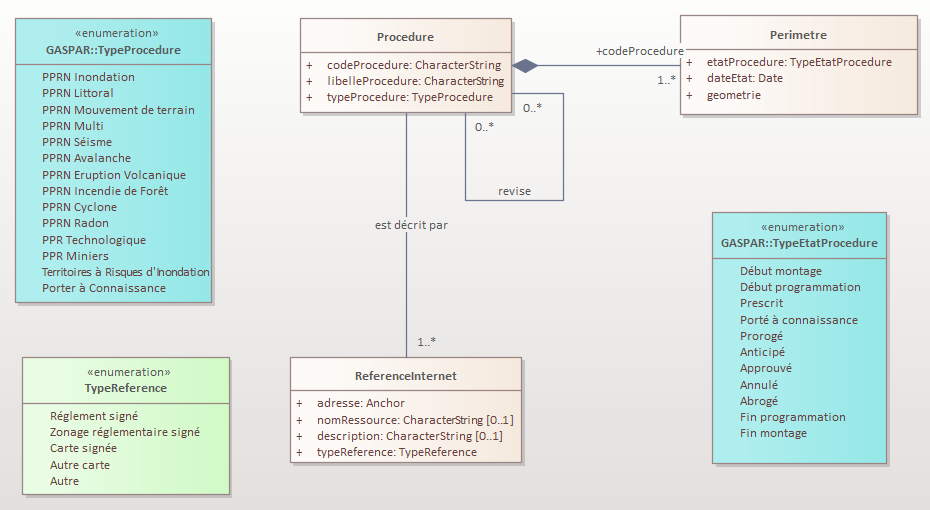
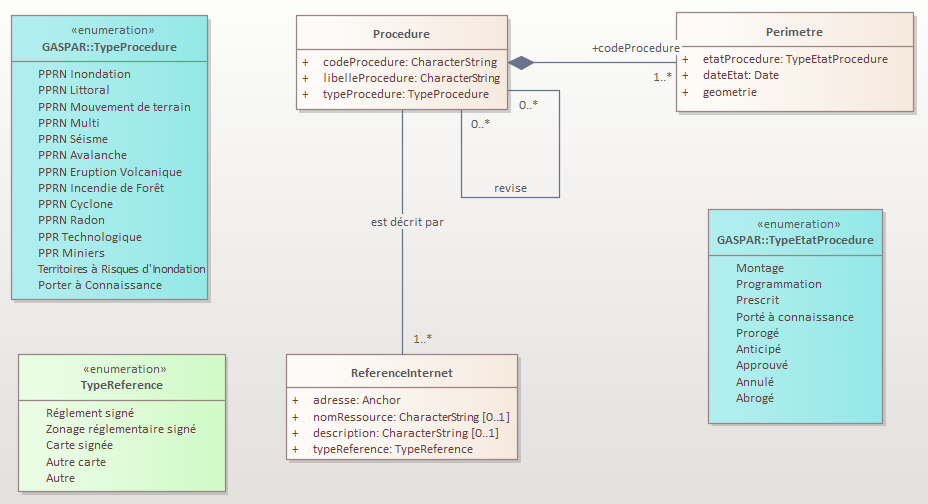
application libellés états procédures fournis par VZ.

diff --git a/standards/Geostandards-risques-commun/Document.md b/standards/Geostandards-risques-commun/Document.md
@@ -475,15 +475,15 @@ Le tableau suivant liste les différents états possibles d'une procédure appli
 
 | Libellé État | Description |
 |-|-|
-| Début programmation | Début de la programmation de la procédure |
-| Début montage | Début du montage de la procédure |
-| Prescrit | La procédure a fait l'objet d'un arrêté de prescription |
+| Programmation | Période prévisionnelle de l'élaboration de la procédure |
+| Montage | Période de réflexion du service instructeur sur la mise en place de la procédure |
+| Prescrit | La procédure a fait l'objet d'un arrêté préfectoral de prescription |
 | Porté à connaissance | La procédure a été portée à connaissance des collectivités |
 | Prorogé | La durée de validité de la procédure est prolongée au delà de la date initialement fixée |
-| Anticipé | La procédure est approuvée par anticipation |
-| Approuvé | La procédure est approuvée par l'autorité compétente et elle est opposable |
-| Annulé | La procédure est annulée |
-| Abrogé | La procédure est abrogée |
+| Anticipé | La procédure a fait l'objet d'un arrêté préfectoral portant mise en application anticipée |
+| Approuvé | La procédure fait l'objet d'un arrêté préfectoral portant approbation |
+| Annulé | La procédure a fait l'objet d'une décision d'une juridiction portant annulation |
+| Abrogé | La procédure a fait l'objet d'un arrêté préfectoral portant abrogation |
 
 
 #### Enumeration *TypeReference*
@@ -1092,7 +1092,7 @@ Le tableau suivant liste les différents types de procédures gérées dans GASP
 
 ### États d'une procédure GASPAR
 
-Le tableau suivant liste les différents états et des sous-états d'une procédure administrative dans GASPAR.  Les codes et libellés des sous-états sont réutilisés comme base pour l'énumération [TypeÉtatProcedure](#enumeration-typeetatprocedure) qui restreint les valeurs de la propriété `etatProcedure` de la classe d'objets [Perimetre](#classe-dobjets-perimetre).
+Le tableau suivant liste les différents états et des sous-états d'une procédure administrative dans GASPAR. Les codes et libellés des sous-états sont réutilisés comme base pour l'énumération [TypeÉtatProcedure](#enumeration-typeetatprocedure) qui restreint les valeurs de la propriété `etatProcedure` de la classe d'objets [Perimetre](#classe-dobjets-perimetre).
 
 
 | Code état | Libellé état | Code sous-état | Libellé sous-état |
